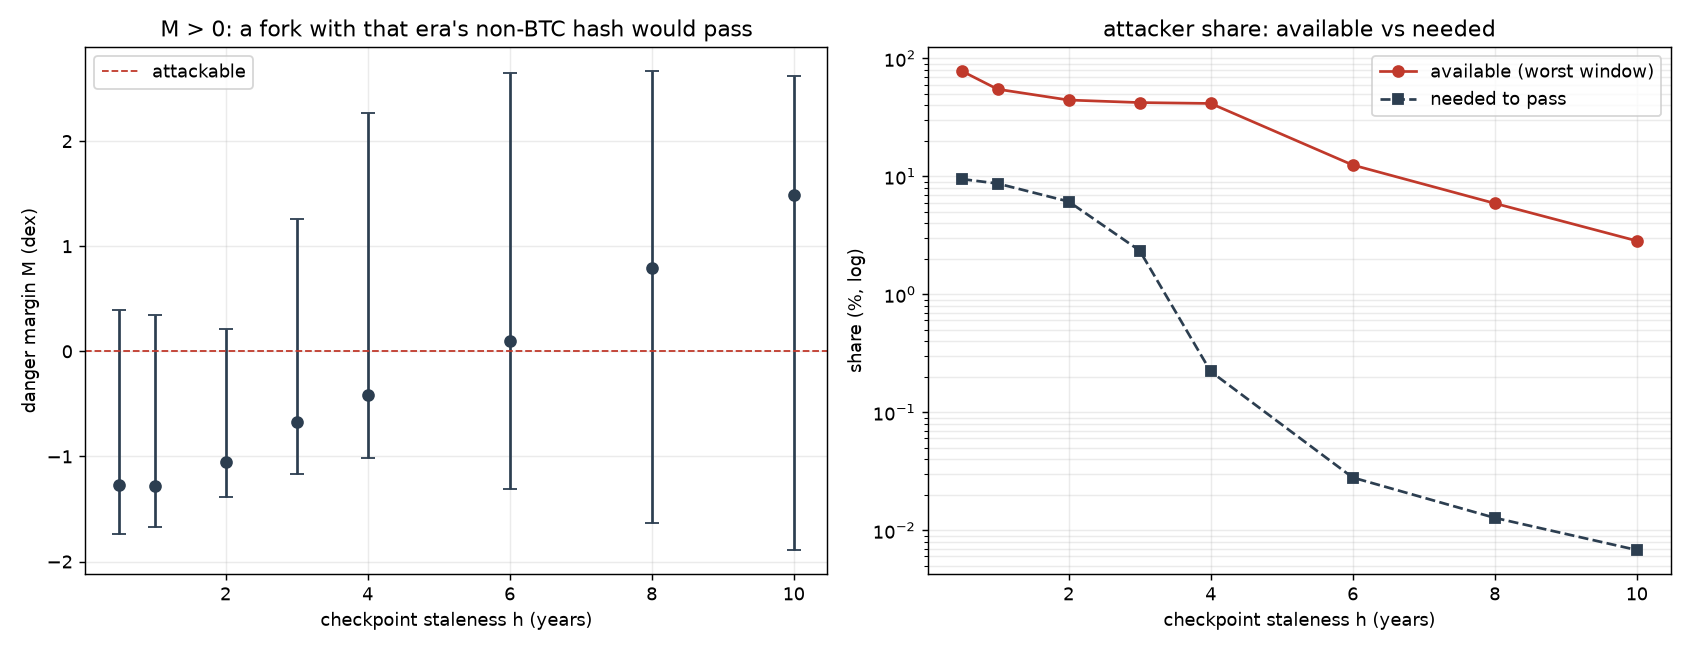
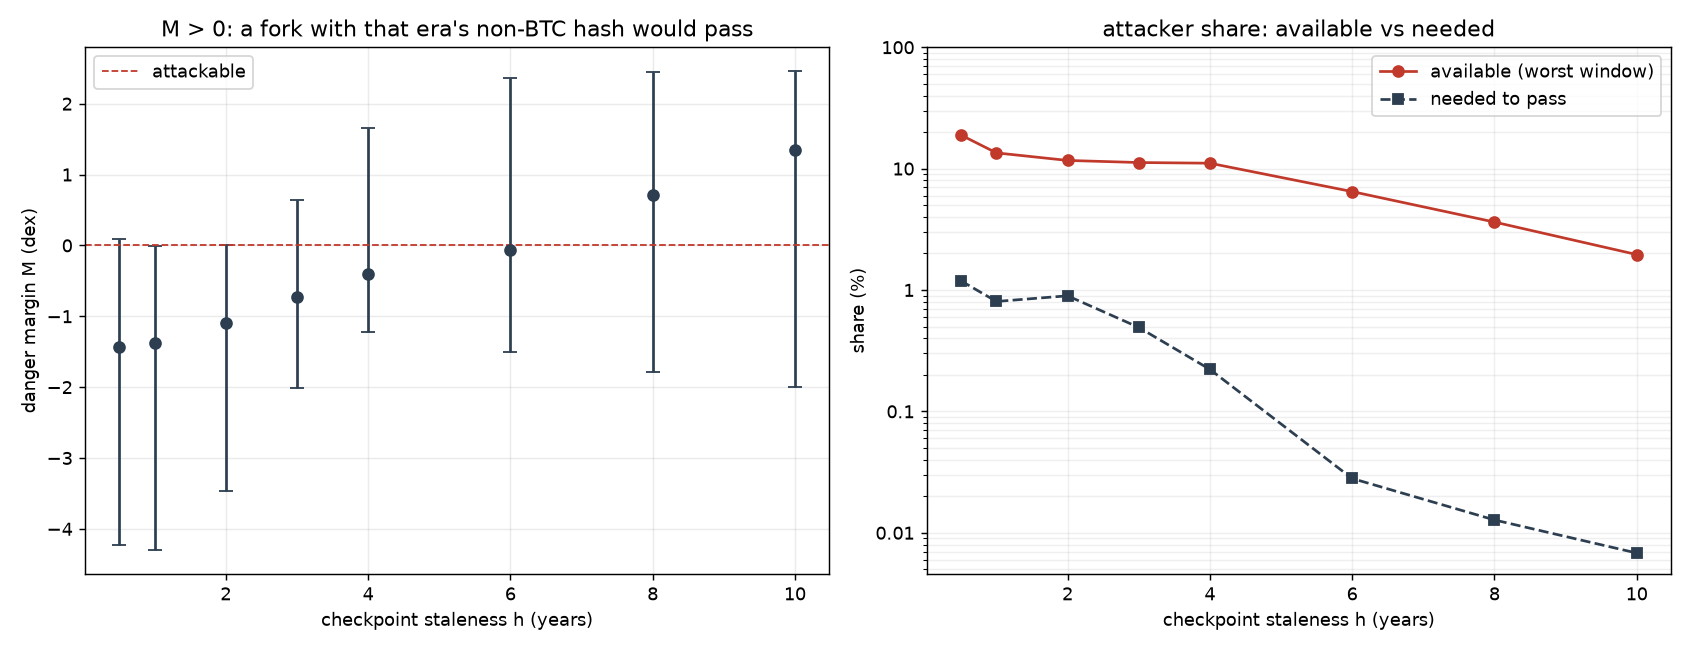
simplify diagrams

diff --git a/resistance.py b/resistance.py
@@ -1,0 +1,144 @@
+#!/usr/bin/env python3
+"""Diagrams and table for the partition-resistance bound (resistance.md).
+
+    G(T) = mean difficulty over [t0, now] / D(t0)
+
+The flat-bar rule accepts a candidate iff its work since the checkpoint is at
+least the constant-difficulty work, so a fork holding a share `s` of believable
+hash passes iff `s >= 1/G(T)`.  The maximum safe staleness is the first `T` where
+`G(T) = 1/s`.
+
+Usage:  python3 resistance.py
+"""
+import math
+
+from finality import load, BTC, X_NOW, WORK, YEAR
+
+SHARES = (0.005, 0.01, 0.02, 0.05, 0.10, 0.20, 0.33, 0.49)
+CASES = ((0.005, "forks (median ~0.5%)"), (0.33, "67% honest"), (0.49, "51% honest"))
+GROWTHS = (1.2, 1.5, 2.0, 10.0)
+
+
+def D(t):
+    lo, hi = 0, len(BTC)
+    while lo < hi:
+        mid = (lo + hi) // 2
+        if BTC[mid][0] <= t:
+            lo = mid + 1
+        else:
+            hi = mid
+    return 10 ** BTC[lo - 1][1]
+
+
+def work(lo, hi):
+    total = 0.0
+    for i in range(1, len(BTC)):
+        x0, y0, h0, _ = BTC[i - 1]
+        x1, y1, h1, _ = BTC[i]
+        a, z = max(x0, lo), min(x1, hi)
+        if z > a:
+            total += (h1 - h0) * ((z - a) / (x1 - x0)) * WORK * 10 ** ((y0 + y1) / 2)
+    return total
+
+
+def G(L):
+    """mean difficulty over [now-L, now] / D(now-L)."""
+    t0 = X_NOW - L
+    if t0 < 1.0:
+        return None
+    return work(t0, X_NOW) / (D(t0) * WORK / 600.0 * L * YEAR)
+
+
+def cap(s, step=0.025, lmax=12.0):
+    """First staleness where G >= 1/s, or None if never within lmax."""
+    L = step
+    while L <= lmax:
+        g = G(L)
+        if g is not None and g >= 1.0 / s:
+            return L
+        L += step
+    return None
+
+
+def cap_cf(s, gpy):
+    """Closed form: solve (e^(kT)-1)/(kT) = 1/s."""
+    k = math.log(gpy)
+    lo, hi = 1e-3, 60.0
+    for _ in range(200):
+        m = (lo + hi) / 2
+        gg = (math.exp(k * m) - 1) / (k * m) if k * m > 1e-9 else 1.0
+        if gg < 1.0 / s:
+            lo = m
+        else:
+            hi = m
+    return (lo + hi) / 2
+
+
+def main():
+    print("flat-bar rule: max safe staleness = first T with G(T) = 1/s")
+    print("  %-8s %-10s %s" % ("share s", "1/s", "cap"))
+    for s in SHARES:
+        c = cap(s)
+        print("  %-8s %-10.0f %s" % (f"{100*s:g}%", 1 / s, f"{c:.2f} y" if c else ">12y"))
+
+    try:
+        plot()
+    except ImportError:
+        pass
+
+
+def plot(path="diagrams/resistance_caps.png"):
+    import matplotlib
+    matplotlib.use("Agg")
+    import matplotlib.pyplot as plt
+    import numpy as np
+
+    fig, (ax1, ax2) = plt.subplots(1, 2, figsize=(13, 5.2))
+
+    # A: the growth functional and the 1/s bars
+    Ls = np.arange(0.25, 12.01, 0.25)
+    Gs = [G(L) for L in Ls]
+    ax1.semilogy(Ls, Gs, lw=2, color="#2c3e50", label="G(T) = mean D / D(anchor)")
+    ax1.set_yticks([1, 2, 5, 10, 20, 50, 100, 200, 500, 1000])
+    ax1.set_yticklabels(["1", "2", "5", "10", "20", "50", "100", "200", "500", "1000"])
+    ax1.set_xticks(range(0, 13, 2))
+    colors = ("#2980b9", "#27ae60", "#e67e22", "#c0392b")
+    for s, lab, col in zip((0.005, 0.05, 0.33, 0.49),
+                           ("0.5% attacker", "5% attacker", "33%", "49%"), colors):
+        ax1.axhline(1 / s, ls="--", lw=1, color=col)
+        ax1.text(0.3, 1 / s * 1.08, lab, color=col, fontsize=8)
+    ax1.set_xlabel("checkpoint staleness T (years)")
+    ax1.set_ylabel("G(T) = mean difficulty / anchor difficulty")
+    ax1.set_title("honest growth vs the attacker's bar\n(crossing = max safe staleness)")
+    ax1.grid(which="both", alpha=0.2); ax1.legend(loc="lower right")
+
+    # B: cap vs attacker share, empirical + closed form
+    grid = np.logspace(math.log10(0.002), math.log10(0.6), 40)
+    caps = [cap(s, step=0.05) or 12.0 for s in grid]
+    ax2.plot([100 * s for s in grid], caps, lw=2.4, color="#2c3e50", label="BTC, last decade")
+    for g, col in zip(GROWTHS, ("#95a5a6", "#7f8c8d", "#34495e", "#c0392b")):
+        ys = [min(cap_cf(s, g), 24.0) for s in grid]
+        ax2.plot([100 * s for s in grid], ys, ls=":", lw=1.2, color=col,
+                 label=f"{g:g}x/yr growth")
+    for s, lab in CASES:
+        c = cap(s)
+        if c:
+            ax2.plot(100 * s, c, "o", color="#c0392b", ms=7)
+            ax2.annotate(f"{lab}\n{c:.1f} y", (100 * s, c), textcoords="offset points",
+                         xytext=(6, 6), fontsize=8, color="#c0392b")
+    ax2.set_xscale("log"); ax2.set_yscale("log")
+    ax2.set_xticks([0.5, 1, 2, 5, 10, 20, 33, 49])
+    ax2.set_xticklabels(["0.5", "1", "2", "5", "10", "20", "33", "49"])
+    ax2.set_yticks([1, 2, 3, 5, 10, 20])
+    ax2.set_yticklabels(["1", "2", "3", "5", "10", "20"])
+    ax2.set_xlabel("attacker share of believable hash rate (%)")
+    ax2.set_ylabel("max safe staleness (years)")
+    ax2.set_title("how stale you can be, vs attacker share")
+    ax2.grid(which="both", alpha=0.2); ax2.legend(loc="upper right", fontsize=8)
+
+    fig.tight_layout(); fig.savefig(path, dpi=130); plt.close(fig)
+    print(f"\nwrote {path}")
+
+
+if __name__ == "__main__":
+    main()

diff --git a/forks.py b/forks.py
@@ -1,67 +1,60 @@
 #!/usr/bin/env python3
 """Collective non-BTC SHA256d hash rate, relative to Bitcoin.
 
-The hash an attacker can bring to a partition attack is bounded by the SHA256d
-hash that is not on Bitcoin — if they abandon every other chain.  This measures
-that from the cached series (BCH, BSV, XEC) and reports the **work-weighted**
-share, which is what the work-since-anchor rule compares against: hash that was
-around during a high-hash period counts for more than the same hash in a quiet
-period.
+Measured on a common window grid so both sides are compared over the *same*
+wall-clock period, **fork-aware** (a chain counts only after it diverged) and
+from **work over the window** rather than the raw difficulty ratio — at a fork
+the difficulty is inherited, which makes the ratio read 100 %, and BCH/BSV
+shared a chain until Nov 2018, which makes a naive sum double-count.
 
 Usage:  python3 forks.py
 """
 import math
-import sys
 
-from finality import load, BTC, X_NOW
+from finality import load, work_between, BTC, X_NOW
 
 FORKS = ("BCH", "BSV", "XEC")
+FORKH = {"BCH": 478558, "BSV": 556766, "XEC": 661648}
 SERIES = {c: load(c) for c in FORKS}
+FORKT = {c: next(p[0] for p in SERIES[c] if p[2] >= FORKH[c]) for c in FORKS}
 
 
-def difficulty_at(pts, t):
-    """Difficulty of a sampled chain at time t (last sample at or before t)."""
-    lo, hi = 0, len(pts)
-    while lo < hi:
-        mid = (lo + hi) // 2
-        if pts[mid][0] <= t:
-            lo = mid + 1
-        else:
-            hi = mid
-    return 0.0 if lo == 0 else 10 ** pts[lo - 1][1]
+
+STEP_GRID = [p[0] for p in SERIES["BCH"]]      # BCH's own ~4-month windows
 
 
 def share_at(t):
-    base = difficulty_at(BTC, t)
-    if base <= 0:
+    """Non-BTC share of BTC hash rate over the window containing t."""
+    for a, b in zip(STEP_GRID, STEP_GRID[1:]):
+        if a <= t <= b:
+            return _share(a, b)
+    return _share(STEP_GRID[-2], STEP_GRID[-1])
+
+def _share(a, b):
+    bw = work_between(a, b, BTC)
+    if bw <= 0:
         return 0.0
-    return sum(difficulty_at(SERIES[c], t) for c in FORKS) / base
+    fw = sum(work_between(a, b, SERIES[c]) for c in FORKS
+             if a + 1e-9 >= FORKT[c])
+    return fw / bw
 
 
-def share_series(step=0.05):
-    lo = max(s[0][0] for s in SERIES.values())
-    out, t = [], lo
-    while t <= X_NOW:
-        s = share_at(t)
-        if s > 0:
-            out.append((t, s))
-        t += step
-    return out
+def share_series():
+    return [((a + b) / 2, _share(a, b)) for a, b in zip(STEP_GRID, STEP_GRID[1:])]
 
 
 def main():
     ss = share_series()
-    print("non-BTC SHA256d share of Bitcoin hash rate (BCH + BSV + XEC)")
-    print("  %-14s %-10s" % ("year", "share"))
+    print("non-BTC SHA256d share of Bitcoin hash rate (BCH + BSV + XEC, per ~4-month window)")
     by_year = {}
     for x, s in ss:
         by_year.setdefault(int(2009 + x), []).append(s)
     for y in sorted(by_year):
         v = sorted(by_year[y])
-        print("  %-14d %-10s  (peak %.2f%%)" % (y, f"{100*v[len(v)//2]:.2f}%", 100*v[-1]))
+        print("  %-6d median %6.2f%%   peak %6.2f%%" % (y, 100 * v[len(v) // 2], 100 * v[-1]))
     vals = sorted(s for _, s in ss)
-    print("\n  n=%d  median=%.2f%%  peak=%.2f%%"
-          % (len(vals), 100 * vals[len(vals) // 2], 100 * vals[-1]))
+    print("  full history: median %.2f%%   peak %.2f%% (%d)"
+          % (100 * vals[len(vals) // 2], 100 * vals[-1], 2009 + max(ss, key=lambda z: z[1])[0]))
 
     try:
         plot(ss)
@@ -76,9 +69,12 @@ def plot(ss, path="diagrams/fork_hash_share.png"):
 
     fig, ax = plt.subplots(figsize=(11, 5))
     ax.semilogy([x for x, _ in ss], [100 * s for _, s in ss], lw=1.5, color="#c0392b")
-    ax.set_xlabel("years since genesis"); ax.set_ylabel("share of Bitcoin hash rate (%, log)")
+    ax.set_yticks([0.01, 0.05, 0.1, 0.5, 1, 5, 10, 50])
+    ax.set_yticklabels(["0.01", "0.05", "0.1", "0.5", "1", "5", "10", "50"])
+    ax.set_xlabel("years since genesis")
+    ax.set_ylabel("non-BTC share of Bitcoin hash rate (%)")
     ax.set_title("Non-BTC SHA256d hash rate (BCH + BSV + XEC) as a share of Bitcoin")
-    ax.grid(which="both", alpha=0.25)
+    ax.grid(which="both", alpha=0.2)
     fig.tight_layout(); fig.savefig(path, dpi=130); plt.close(fig)
     print(f"\nwrote {path}")
 

diff --git a/simulate.py b/simulate.py
@@ -148,16 +148,25 @@ def plot(results, path="diagrams/detection_latency.png"):
         ax1.text(10 ** -band, 1.02, f"edge {10 ** -band:.2f}", color=col,
                  fontsize=8, ha="center")
         ax2.loglog(fs, med, marker="o", ms=4, color=col, label=f"band={band:.2f} dex")
-    ax1.set_xlabel("fork hash share f (fraction of dominant hash rate)")
+    ax1.set_xlabel("fork hash share (% of dominant hash rate)")
     ax1.set_ylabel("detected within horizon"); ax1.set_ylim(-0.02, 1.08)
+    ax1.set_xscale("log")
+    ticks = [0.002, 0.005, 0.01, 0.02, 0.05, 0.1, 0.2, 0.5]
+    ax1.set_xticks(ticks)
+    ax1.set_xticklabels([f"{100*t:g}" for t in ticks])
     ax1.set_title("how often the gate fires")
-    ax1.grid(which="both", alpha=0.25); ax1.legend(loc="center left")
-    ax2.set_xlabel("fork hash share f (fraction of dominant hash rate)")
-    ax2.set_ylabel("median detection time (min, detected traces only)")
+    ax1.grid(which="both", alpha=0.2); ax1.legend(loc="center left")
+    ax2.set_xlabel("fork hash share (% of dominant hash rate)")
+    ax2.set_ylabel("median detection time (minutes, detected traces only)")
     ax2.axhline(HORIZON / 60, ls="--", lw=1, color="#888")
     ax2.text(F_S[0], HORIZON / 60 * 1.05, "horizon", color="#888", fontsize=8)
+    ax2.set_xscale("log"); ax2.set_yscale("log")
+    ax2.set_xticks(ticks)
+    ax2.set_xticklabels([f"{100*t:g}" for t in ticks])
+    ax2.set_yticks([60, 100, 200, 500, 1000, 2000])
+    ax2.set_yticklabels(["60", "100", "200", "500", "1000", "2000"])
     ax2.set_title("how long it takes (successful traces)")
-    ax2.grid(which="both", alpha=0.25); ax2.legend(loc="upper left")
+    ax2.grid(which="both", alpha=0.2); ax2.legend(loc="upper left")
     fig.suptitle("Poisson gate backtest: below the edge detection is immediate, "
                  "near-even splits escape")
     fig.tight_layout(); fig.savefig(path, dpi=130); plt.close(fig)

diff --git a/budget.py b/budget.py
@@ -172,9 +172,11 @@ def plot(rows, path="diagrams/attack_budget.png"):
                  label="available (worst window)")
     ax2.semilogy(hs, [100 * n for n in needed], "s--", color="#2c3e50",
                  label="needed to pass")
-    ax2.set_xlabel("checkpoint staleness h (years)"); ax2.set_ylabel("share (%, log)")
+    ax2.set_yticks([0.01, 0.1, 1, 10, 100])
+    ax2.set_yticklabels(["0.01", "0.1", "1", "10", "100"])
+    ax2.set_xlabel("checkpoint staleness h (years)"); ax2.set_ylabel("share (%)")
     ax2.set_title("attacker share: available vs needed")
-    ax2.grid(which="both", alpha=0.25); ax2.legend()
+    ax2.grid(which="both", alpha=0.2); ax2.legend()
     fig.tight_layout(); fig.savefig(path, dpi=130); plt.close(fig)
     print(f"\nwrote {path}")
 

diff --git a/README.md b/README.md
@@ -80,7 +80,7 @@ A 50 % fork escapes 86 % of 7-day traces at a 0.94 dex band.
 
 **Attack budget.**  A fork can accumulate at most its own hash over the elapsed
 interval.  Using the collective non-BTC SHA256d hash (BCH + BSV + XEC; median
-≈ 1 % of Bitcoin, 2018 peak ≈ 30 %, ≈ 0.4 % today):
+≈ 1.3 % of Bitcoin, 2017 peak 34 %, ≈ 0.5 % today):
 
 ![fork hash share](diagrams/fork_hash_share.png)
 
@@ -89,10 +89,10 @@ that era's non-BTC hash would pass.  Over every historical window:
 
 ![attack budget](diagrams/attack_budget.png)
 
-* The median window is safe to ≈ 5 years of staleness; from ≈ 4–5 years the
-  median margin crosses zero.
-* The most attacker-favourable window (2018–2020, when the non-BTC share was
-  10–78 % work-weighted) passes at every staleness.
+* The typical window is safe to ≈ 7 years of staleness; the median margin crosses
+  zero around then.
+* The attacker-favourable windows are the 2017–2018 ones, where the work-weighted
+  non-BTC share was ~6–12 %; those pass at every staleness.
 * An upward break of the real chain lowers the bar (`g > 0`); a downward break
   raises it, so it costs availability — refusing to finalize — rather than
   safety.
@@ -100,8 +100,8 @@ that era's non-BTC hash would pass.  Over every historical window:
 Anchoring on the trusted chain's own recent work instead of a fit — accept iff
 the work since the checkpoint is at least `10^−k`× the work in the equal period
 before it, with `k` set so the true chain keeps 95 % — removes the extrapolation
-blow-up entirely and is safe against the historical collective for staleness
-≤ 3 years (margin below zero on every window); it turns positive from ≈ 4 years.
+blow-up entirely.  Its median window is safe to ≈ 4 years; the 2017–2018 windows
+turn positive from ≈ 1 year.
 
 The staleness bound as a function of attacker hash share — including the
 51 %- and 67 %-honesty thresholds and how much hash non-BTC forks actually held —
@@ -131,6 +131,7 @@ fetch.py             # cache difficulty series -> data/<chain>.json
 finality.py          # the rule: statistic, isotonic band, decide()
 chainwork.py         # report and figures for the rule
 forks.py             # non-BTC SHA256d hash share of Bitcoin
+resistance.py        # staleness bound vs attacker share; resistance diagrams
 budget.py            # attack budget: can the non-BTC hash fool the rule
 simulate.py          # detection-latency backtest
 attack_sim.py        # block-level attacker under the real retarget path
@@ -144,6 +145,7 @@ python3 fetch.py            # BTC offline; BCH/XEC Blockchair; BSV a public node
 python3 finality.py         # bands, live decision, envelopes
 python3 chainwork.py        # bands, coverage, attack cost, grid figure
 python3 forks.py            # non-BTC hash share + figure
+python3 resistance.py       # staleness bound vs attacker share + figure
 python3 budget.py           # attack-budget margins over historical windows
 python3 simulate.py         # detection-latency backtest
 python3 attack_sim.py       # attacker under the retarget path

diff --git a/resistance.md b/resistance.md
@@ -87,6 +87,13 @@ These are flatter than the `2×/yr` column because the decade's *average* growth
 was slower than 2×/yr; they are steeper than `1.5×/yr` late on, because the
 2017–2019 ramp sits inside the longer windows.
 
+![resistance caps](diagrams/resistance_caps.png)
+
+Left: the honest growth functional `G(T)` and the attacker's bar `1/s` for
+`s` = 0.5 %, 5 %, 33 %, 49 %; each crossing is that attacker's maximum safe
+staleness.  Right: the same caps as a curve, with the closed-form growth-rate
+reference lines and the three honesty thresholds marked.
+
 ## 5. How much hash non-BTC forks actually held
 
 Measured fork-aware and from realized block times (raw difficulty ratios are
@@ -97,14 +104,14 @@ until Nov 2018):
 
 | chain | peak | when |
 |---|---|---|
-| BCH | **32.3 %** | 2017-08-01 → 2017-10-28 (EDA era) |
-| BSV | 2.5 % | 2019-11 |
-| XEC | 0.25 % | 2021 |
+| BCH | **34.4 %** | 2017-08-01 → 2017-10-28 (EDA era) |
+| BSV | 2.6 % | 2018-11, just after its fork |
+| XEC | 0.24 % | 2020-11, just after its fork |
 
-Collective (BCH+BSV+XEC): median **1.2 %** over full history, **0.5 %** in the
-last two years; work-weighted median **0.56 %**; mean over full history 3.75 %,
-but only 0.56 % over the last three years.  The peak is a single ~3-month EDA
-spike; the typical level is ~0.5 %.
+Collective (BCH+BSV+XEC), on the same ~4-month sample windows: median **1.3 %**
+over full history, **0.5 %** in the last two years; work-weighted median
+**0.58 %**; mean over full history 4.1 %, but only 0.54 % over the last three
+years.  The peak is a single post-fork EDA window; the typical level is ~0.5 %.
 
 ## 6. Three honesty thresholds
 
